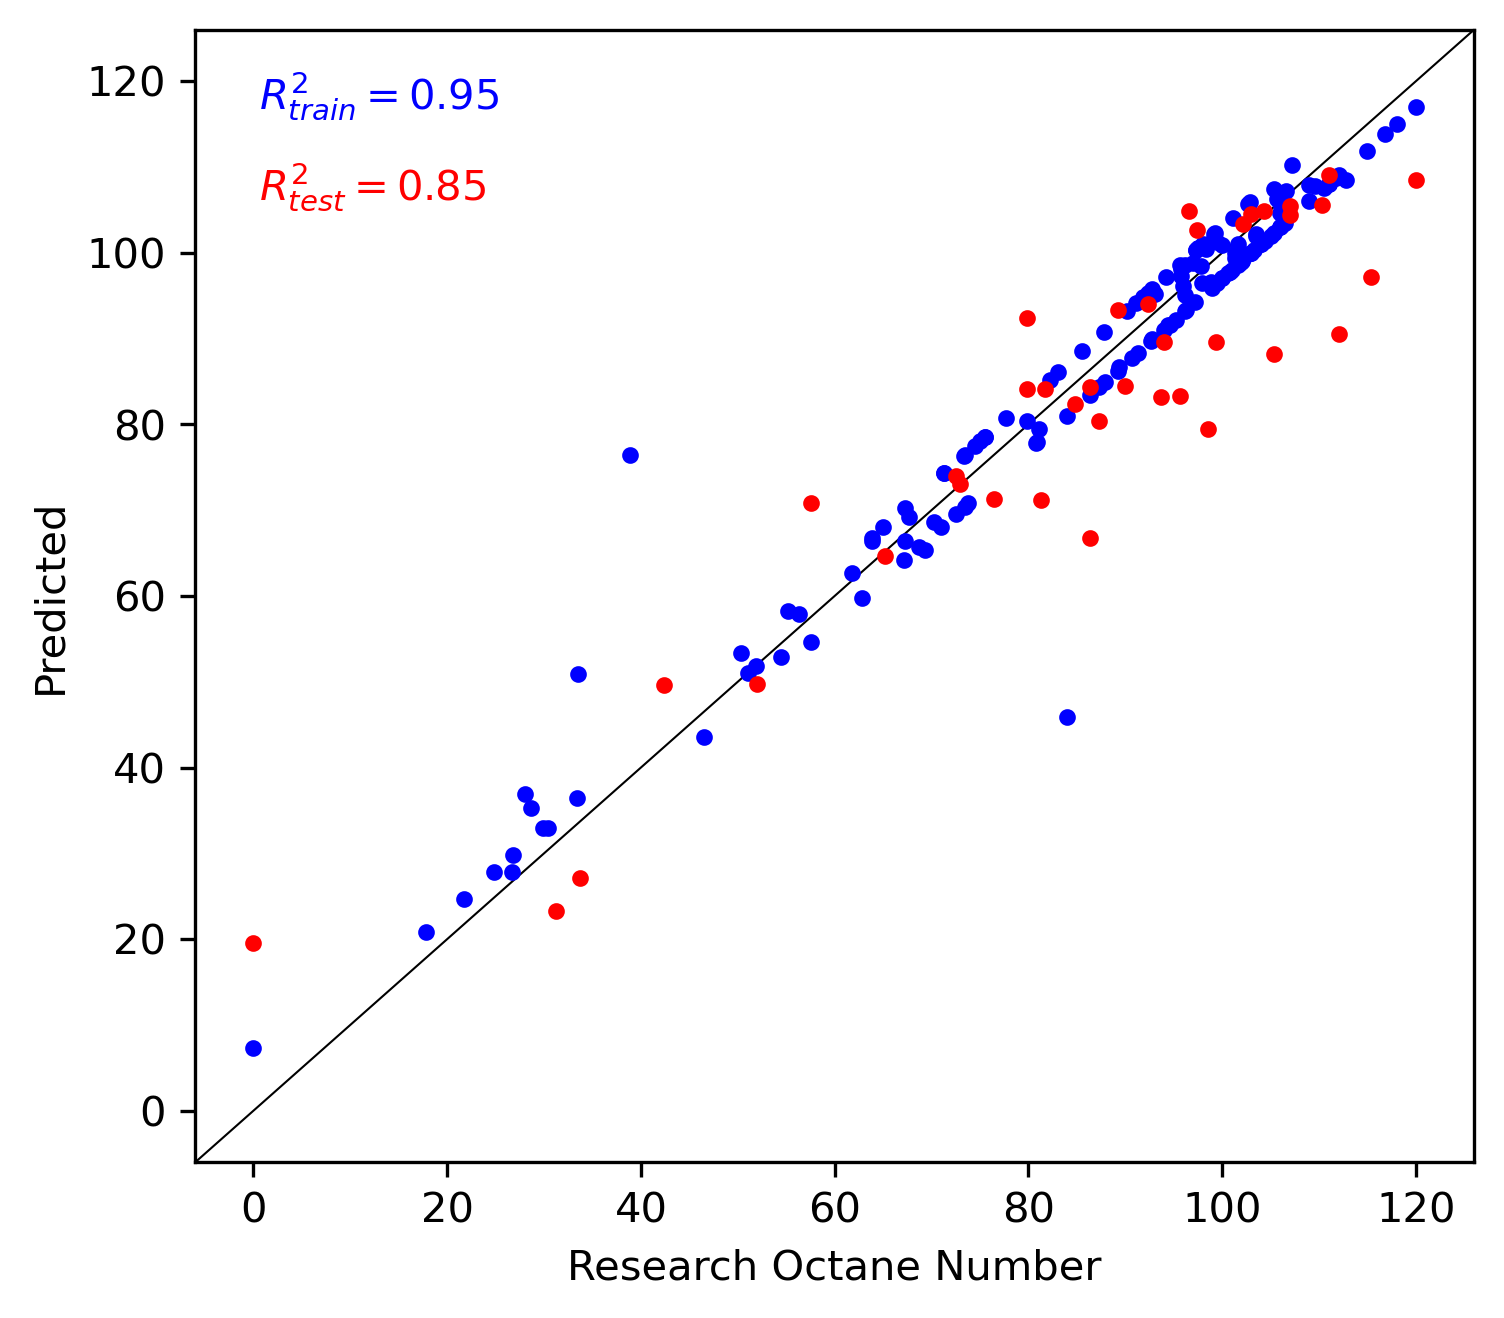
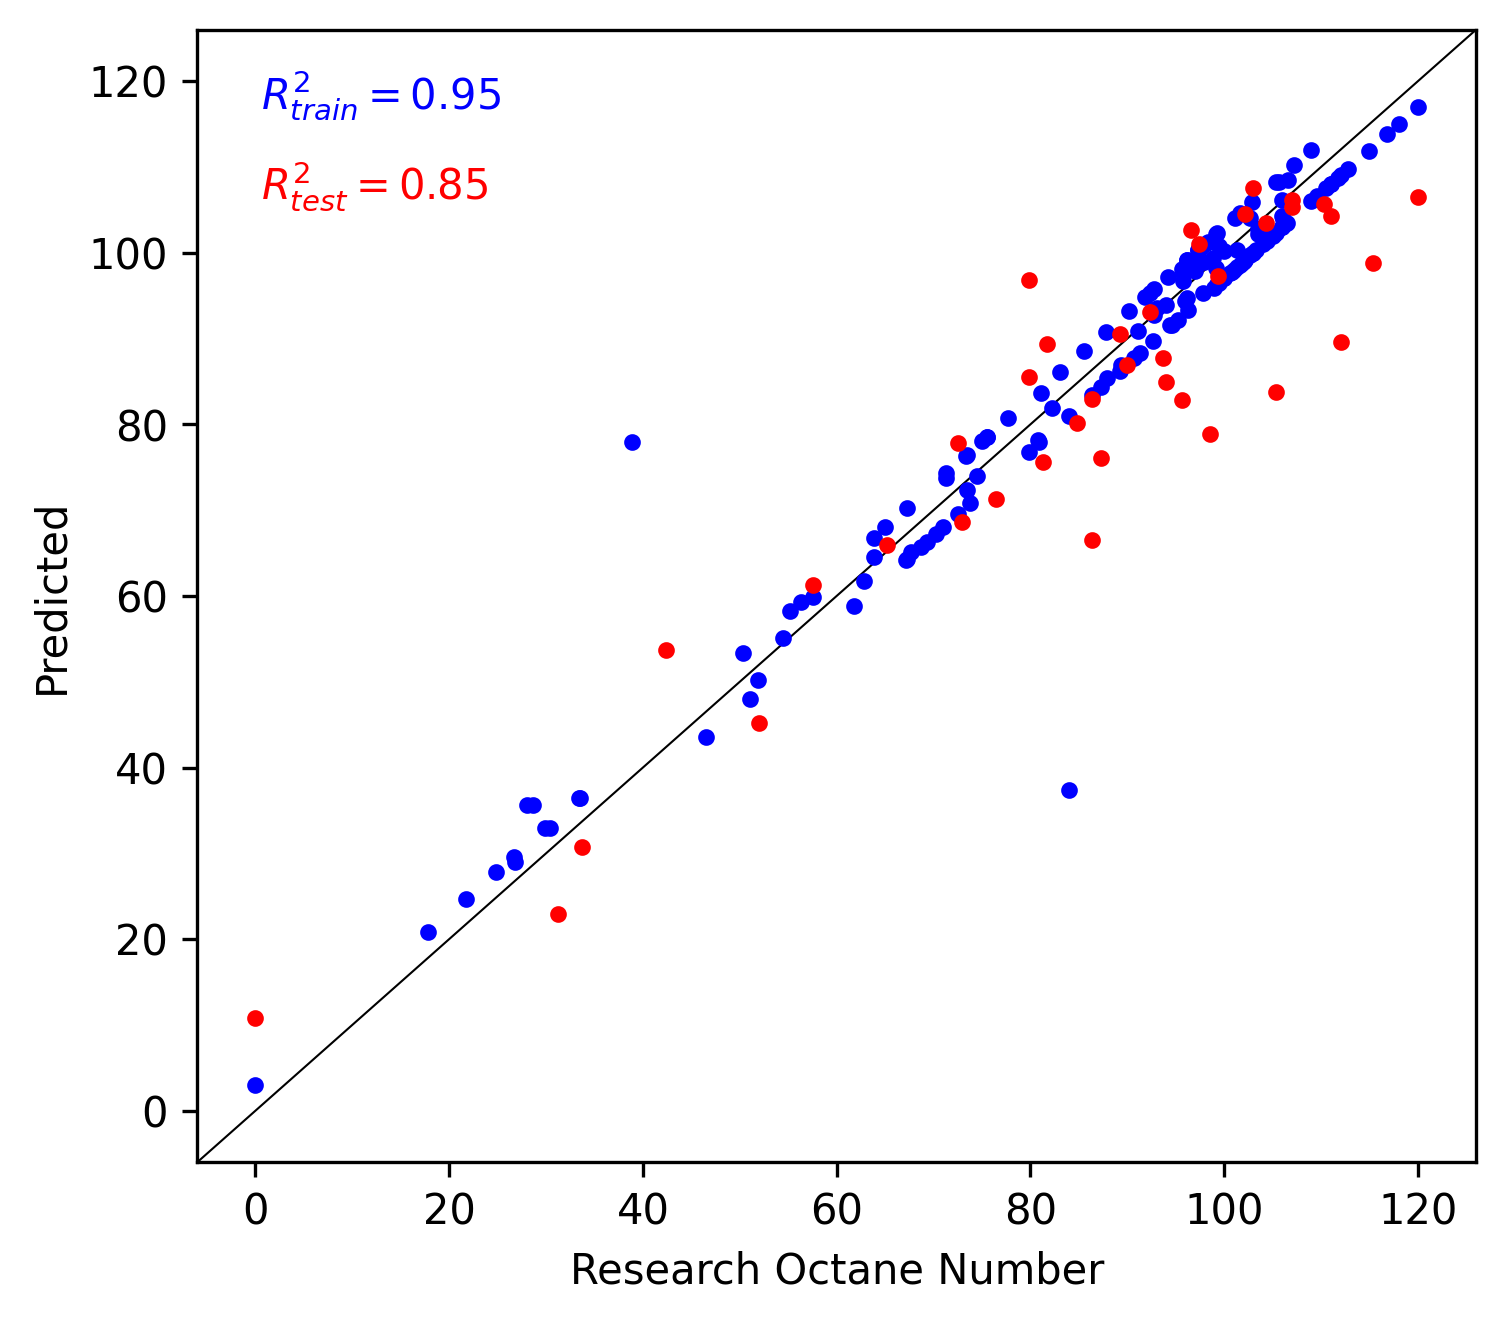
Included support for umap

diff --git a/macaw_py/macaw.py b/macaw_py/macaw.py
@@ -2,6 +2,7 @@
 """
 Created on Sun Jun 13 13:22:31 2021
 
+Part of the MACAW project.
 Contains the MACAW class and the MACAW_optimus function.
 
 @author: Vincent
@@ -19,6 +20,7 @@ from sklearn.manifold import Isomap
 from sklearn.decomposition import PCA, FastICA, FactorAnalysis
 from sklearn.svm import SVR, SVC
 from sklearn.model_selection import cross_val_score
+import umap
 
 
 class MACAW:
@@ -66,7 +68,7 @@ class MACAW:
 
     _algorithm : str, optional
         Algorithm to use for the projection. Options available are 'MDS',
-        'isomap', 'PCA', ICA', and 'FA'. Defaults to 'MDS'.
+        'isomap', 'PCA', ICA', 'FA', and 'umap'. Defaults to 'MDS'.
 
     Methods
     -------
@@ -121,7 +123,7 @@ class MACAW:
         self._metric = metric.lower().replace(" ", "")
 
         algorithm = algorithm.lower().replace(" ", "")
-        if algorithm not in ["mds", "isomap", "pca", "ica", "fa"]:
+        if algorithm not in ["mds", "isomap", "pca", "ica", "fa", "umap"]:
             raise IOError(
                 (
                     f"Error: Invalid algorithm {algorithm}. See the "
@@ -174,7 +176,7 @@ class MACAW:
 
     def set_algorithm(self, algorithm):
         algorithm = algorithm.lower().replace(" ", "")
-        if algorithm not in ["mds", "isomap", "pca", "ica", "fa"]:
+        if algorithm not in ["mds", "isomap", "pca", "ica", "fa", "umap"]:
             raise IOError(f"Unknown algorithm {algorithm}.")
         self._algorithm = algorithm
 
@@ -444,6 +446,11 @@ class MACAW:
 
         elif algorithm == "fa":
             LndS = FactorAnalysis(n_components=n_components)
+            LndS.fit(D)
+            
+        elif algorithm == "umap":
+            LndS = umap.UMAP(n_components=n_components, metric='precomputed',
+                             min_dist=0.3)
             LndS.fit(D)
 
         self.__LndS = LndS

diff --git a/setup.py b/setup.py
@@ -11,7 +11,7 @@ setup(
       url='https://github.com/LBLQMM/macaw',
       author='Vincent Blay',
       author_email='vblayroger@lbl.gov',
-      description='Macaw molecular embedder',
+      description='MACAW molecular embedder and generator',
       long_description=long_description,
       long_description_content_type='text/markdown',
       packages=['macaw_py'],
@@ -33,5 +33,6 @@ setup(
           'scikit-learn >= 0.24.1',
           'scipy >= 1.6.1',
           'selfies >= 1.0.4',
+          'umap >= 0.5.1',
           ],
       )

diff --git a/macaw_py/generators.py b/macaw_py/generators.py
@@ -2,6 +2,7 @@
 """
 Created on Sun Jun 13 13:27:53 2021
 
+Part of the MACAW project.
 Contains the library_maker and library_evolver functions, the hit_finder
 and hit_finder2 functions.
 

diff --git a/notebooks/plotting.py b/notebooks/plotting.py
@@ -2,7 +2,7 @@
 """
 Created on Sun Jun 13 13:23:53 2021
 
-Contains plotting functions for Macaw project.
+Contains plotting functions for MACAW project.
 
 @author: Vincent
 """

diff --git a/README.md b/README.md
@@ -14,7 +14,7 @@ Details about the different algorithms are explained in the [MACAW publication](
 MACAW requires rdkit to run, which can be installed using [conda](https://anaconda.org/conda-forge/rdkit):
 
 ```bash
-conda install -c conda-forge rdkit
+conda install -c conda-forge rdkit=2020.09.4
 ```
 
 Alternative methods to install rdkit can be found [here](https://www.rdkit.org/docs/Install.html).
